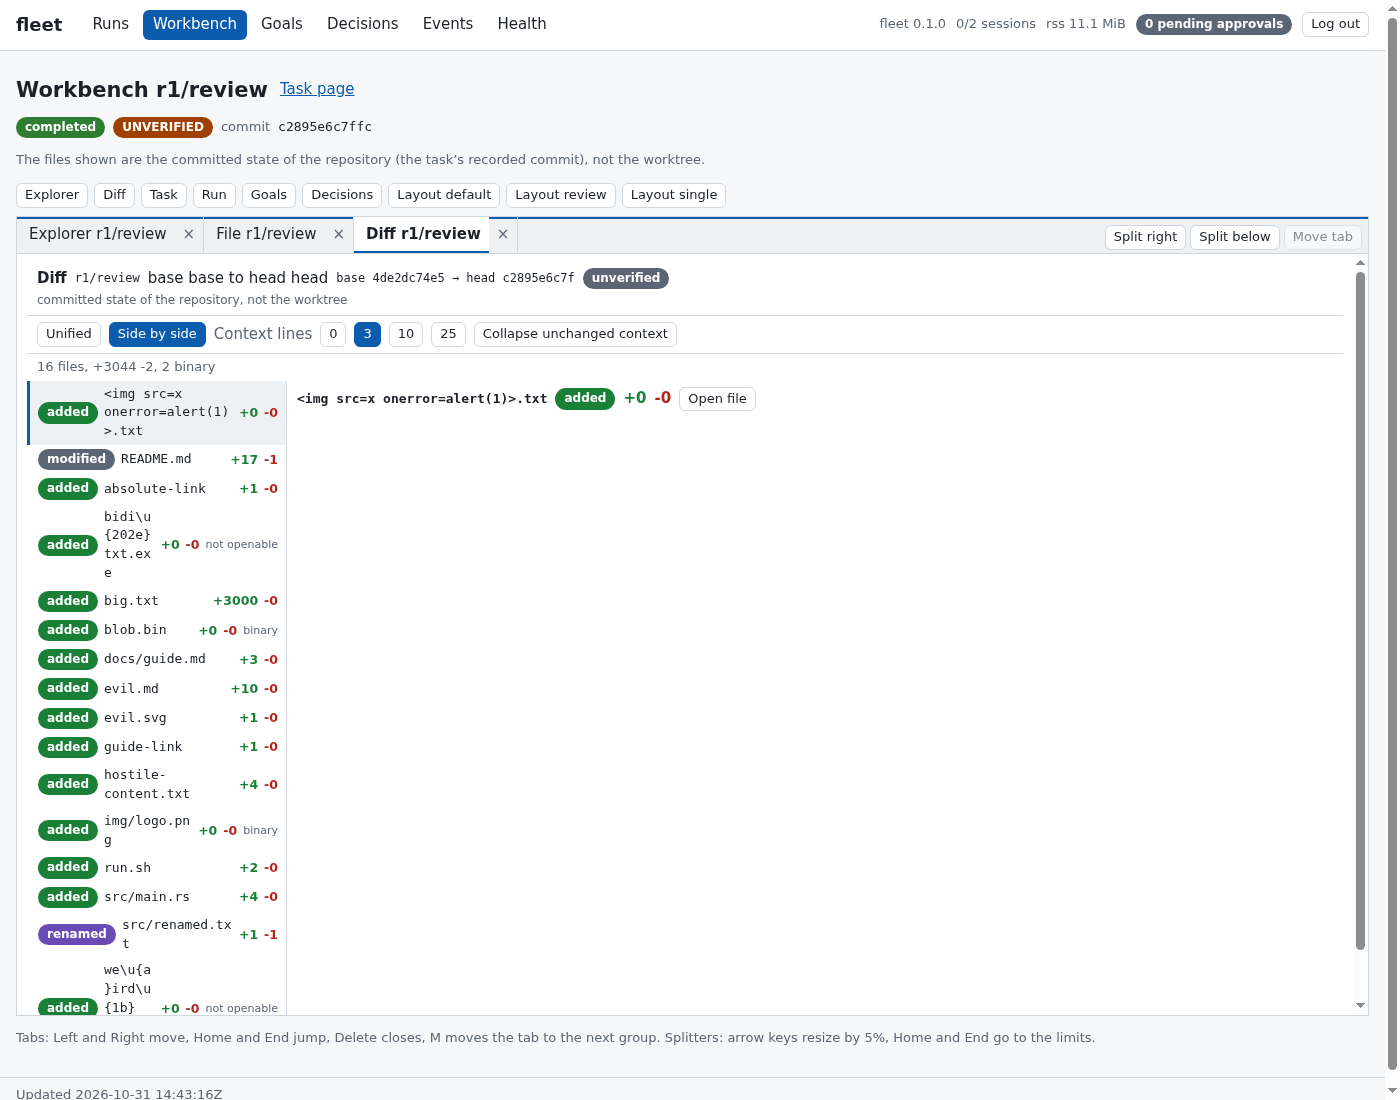
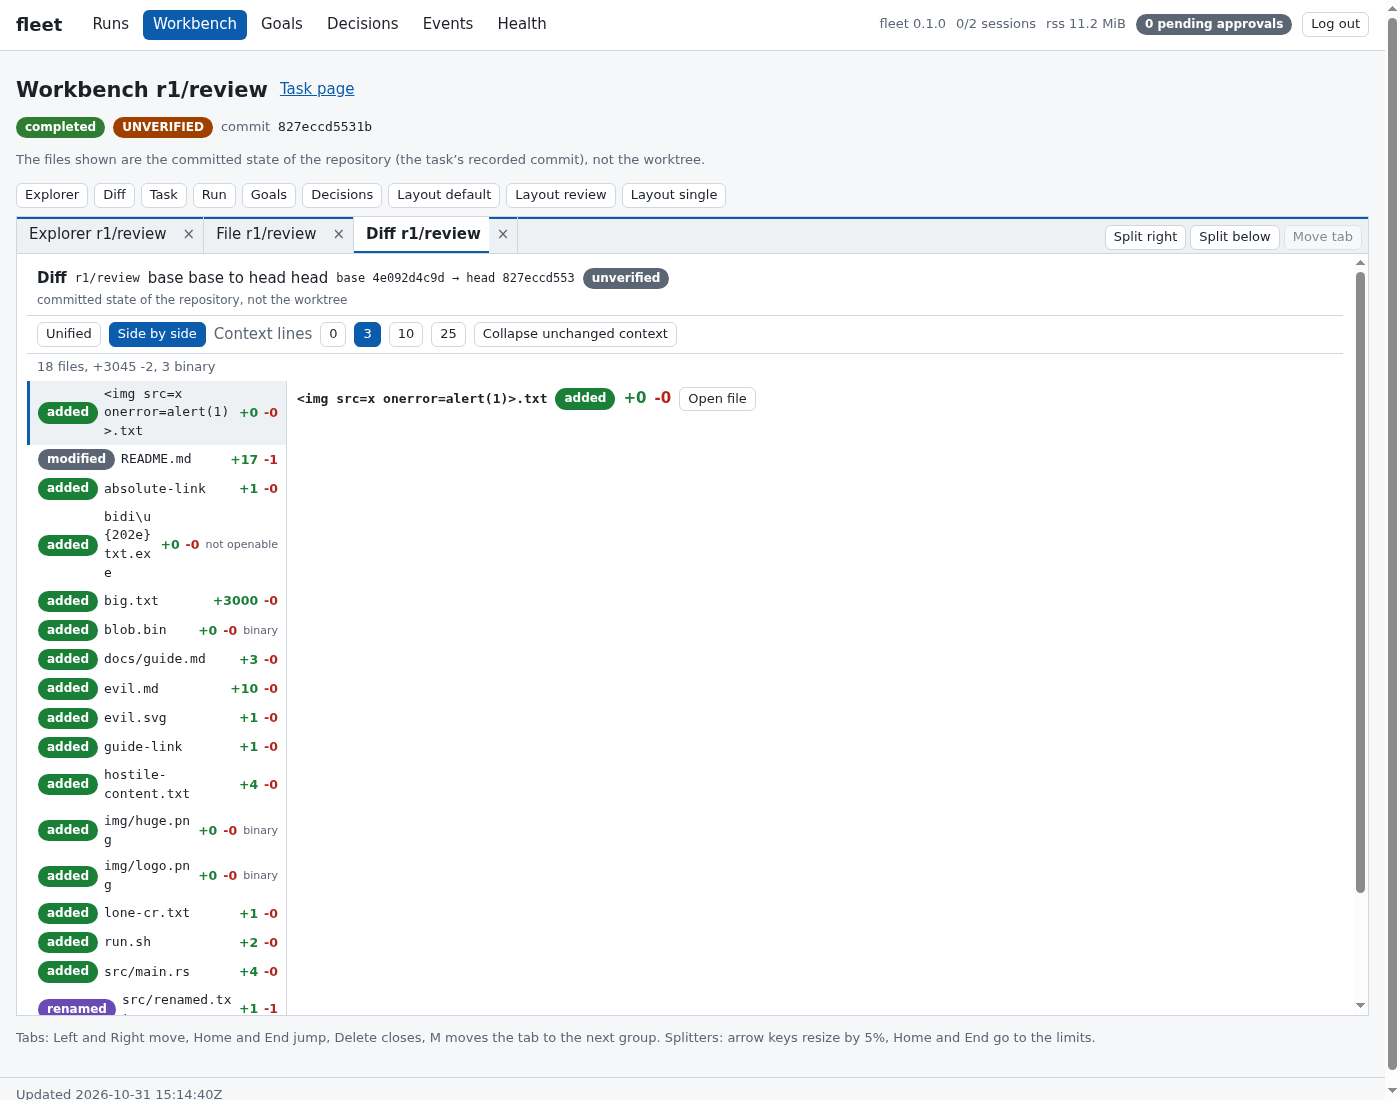
Refresh the screenshots, test counts and coverage from the final run

diff --git a/README.md b/README.md
@@ -841,6 +841,7 @@ id), never from the worktree a worker can write to ([ADR 16](docs/adr/0016-evide
 ![The same diff, unified](docs/img/workbench-unified.png)
 ![The Markdown preview: heading, table, list, code fence, a repository link and an external link that opens only after a click and a confirmation](docs/img/workbench-markdown.png)
 ![The image viewer](docs/img/workbench-image.png)
+![An image that declares 40000 x 40000 pixels in 33 bytes: a placeholder, no image element and no request for its bytes](docs/img/workbench-image-huge.png)
 ![The explorer](docs/img/workbench-explorer.png)
 ![The file viewer](docs/img/workbench-file.png)
 ![A document that tries script tags, event handlers, javascript: and data: links and a remote image: all of it is text or a note](docs/img/workbench-hostile-md.png)
@@ -925,12 +926,12 @@ later phases, see [docs/parity.md](docs/parity.md).
 
 ## Tests
 
-1550 tests, all passing in the final run (fresh cargo volumes, offline after one `cargo fetch --locked`):
+1561 tests, all passing in the final run (fresh cargo volumes, offline after one `cargo fetch --locked`):
 
 | Layer | What is tested | Tests |
 | --- | --- | --- |
-| Domain | pure unit tests of ids, DAG, runs/tasks, decision gates, approvals (consume-once, expiry, digest binding, decisions that must name their digest), quality judgement (`refcheck-json` edge cases), supervision, the origin rules and kill escalation, contract validation, sanitizer, redactor, the repository workbench (validated paths, tree entries, file views, diffs and their patch reader, bounded word marks, a Markdown subset with property and adversarial tests), output ring, events, hash chain, brief quoting, environment policy; NEO: contract schema (also with random documents), glob matcher (against an exponential reference), judging, evidence, the goal ledger with property tests of its status machine (tree shape, verified only through evidence, replay equals live state, evidence immutable, evidence counted only for the reviewed commit of its task, eviction identical on replay) | 422 |
-| Application | the orchestrator driven through commands with in-memory fakes for all ports: lifecycle, supervision and timeouts, decisions and approvals (never run twice across a restart), merging and conflicts, recovery and orphan reconciliation, quality gates, hostile text in every document the dashboard serves; NEO: goal commands and views, the completion rule (failing then passing contract, no completion without evidence, restart, job cap, a goal added mid-run, evidence bound to the commit, dirty worktrees, tickets, merge only of the proven commit, the verification cap, job processes as worker origin), `verify`; plus the port contract suites against the fakes (now including verification jobs) | 314 |
+| Domain | pure unit tests of ids, DAG, runs/tasks, decision gates, approvals (consume-once, expiry, digest binding, decisions that must name their digest), quality judgement (`refcheck-json` edge cases), supervision, the origin rules and kill escalation, contract validation, sanitizer, redactor, the repository workbench (validated paths, tree entries, file views, diffs and their patch reader, bounded word marks, a Markdown subset with property and adversarial tests), output ring, events, hash chain, brief quoting, environment policy; NEO: contract schema (also with random documents), glob matcher (against an exponential reference), judging, evidence, the goal ledger with property tests of its status machine (tree shape, verified only through evidence, replay equals live state, evidence immutable, evidence counted only for the reviewed commit of its task, eviction identical on replay) | 430 |
+| Application | the orchestrator driven through commands with in-memory fakes for all ports: lifecycle, supervision and timeouts, decisions and approvals (never run twice across a restart), merging and conflicts, recovery and orphan reconciliation, quality gates, hostile text in every document the dashboard serves; NEO: goal commands and views, the completion rule (failing then passing contract, no completion without evidence, restart, job cap, a goal added mid-run, evidence bound to the commit, dirty worktrees, tickets, merge only of the proven commit, the verification cap, job processes as worker origin), `verify`; plus the port contract suites against the fakes (now including verification jobs) | 317 |
 | Adapters | every real adapter in temp dirs (git hardening with planted hooks/filters/drivers, merge-by-approved-commit, symlink/FIFO/oversize worker files, pty sessions and the input queue, process identity, hash-chained log, sockets with token and fail-closed admission, redaction of gate and command output, agent-undo path rules, config, the doctor checks; NEO: running contracts with real processes, files and git, `open_beneath`, exporting a commit with planted filters and links, the isolated environment and `PATH`, the process sweeper with `setsid`, redaction before the tail cut) and the same contract suites against the real file adapters; the web adapter: HTTP parsing limits, tokens and sessions, TCP peer lookup, Host/Origin/CSRF/rate limits, strict JSON, slowloris, connection and stream caps, event streams and shutdown over real loopback sockets; the one job tracker that every adapter starting children shares, and the ancestry rule for everything the daemon started; the repository reader (renames, links, submodules, hostile names, huge files and trees, planted configuration) against real git and the contract it shares with the fake | 547 |
 | Soak | bounded memory with flooding workers, the dashboard on and a connected event stream | 1 |
 | End to end | the real binary and daemon (flow, crash recovery, tampering, security incl. a worker that tries to approve, CLI, JSON schemas, exit codes), dashboard rendering on a headless backend, architecture rules (the NEO crates' dependency direction, no clock, no I/O, no `unwrap`; no HTTP, async or TLS crate anywhere; the inner layers know nothing of the web adapter); NEO: the ledger, contracts, exports and the job-origin refusal through the binary; the web dashboard against the real daemon, including the goals, evidence and verification views; the workbench against the real daemon (recorded commits, worktree isolation, forged paths and commits, worker refusal, bounded memory) | 266 |
@@ -948,11 +949,11 @@ helpers:
 
 ```text
 layer               lines  covered  percent
-domain               7336     7184    97.9%
-application          3098     2925    94.4%
-infrastructure       5965     5486    92.0%
+domain               7434     7279    97.9%
+application          3132     2959    94.5%
+infrastructure       5974     5494    92.0%
 cli                  2705     2433    89.9%
-overall             19104    18028    94.4%
+overall             19245    18165    94.4%
 ```
 
 Targets were domain ≥ 95 %, application ≥ 90 %, overall ≥ 85 %. Honest gaps: the event loop of the terminal dashboard
@@ -1045,7 +1046,7 @@ What was run for this repository, all inside containers (the official Rust 1.95 
 dependencies fetched once and everything else offline): `cargo fmt --check`, `cargo clippy --all-targets -- -D
 warnings`, the test suites above, the release build, the 120 second soak (with the dashboard and an event stream),
 `scripts/demo.sh`, `scripts/neo-demo.sh`, `scripts/web-demo.sh` (curl and headless Chromium in the `docker/Dockerfile.web` image),
-`node scripts/web-smoke.mjs` (841 checks), `node scripts/web-smoke-panes.mjs` (521 checks), `scripts/workbench-demo.sh` (headless Chromium) and `check-crates-age` (121 locked crates, every version published on or before 2026-10-24: 0 too new). A secret scan of the
+`node scripts/web-smoke.mjs` (843 checks), `node scripts/web-smoke-panes.mjs` (558 checks), `scripts/workbench-demo.sh` (headless Chromium) and `check-crates-age` (121 locked crates, every version published on or before 2026-10-24: 0 too new). A secret scan of the
 working tree and the whole git history (key shapes, private-key headers, long hex/base64 strings, absolute home paths)
 found no keys or secrets: the only hits are PEM header lines used as redaction-test fixtures (header and a fake body, no key material), `Cargo.lock` checksums and fake `/home/...` paths in tests.
 
@@ -1069,7 +1070,7 @@ DOCKER_NET=none run 'cargo build --release --locked --offline && scripts/demo.sh
 docker build -f docker/Dockerfile.web -t fleet-web docker/
 IMAGE=fleet-web DOCKER_NET=none run 'cargo build --release --locked --offline && scripts/web-demo.sh /target/release/fleet'
 node scripts/web-smoke.mjs   # any node 22 or newer on the host or in a container; no npm packages
-node scripts/web-smoke-panes.mjs   # the workbench panes and the Markdown DOM builder, 521 checks
+node scripts/web-smoke-panes.mjs   # the workbench panes and the Markdown DOM builder, 558 checks
 IMAGE=fleet-web DOCKER_NET=none run 'cargo build --release --locked --offline && scripts/workbench-demo.sh /target/release/fleet'   # headless Chromium, screenshots in docs/img
 DOCKER_NET=none run 'scripts/neo-demo.sh /target/release/fleet'   # the NEO N1 demo
 ```
